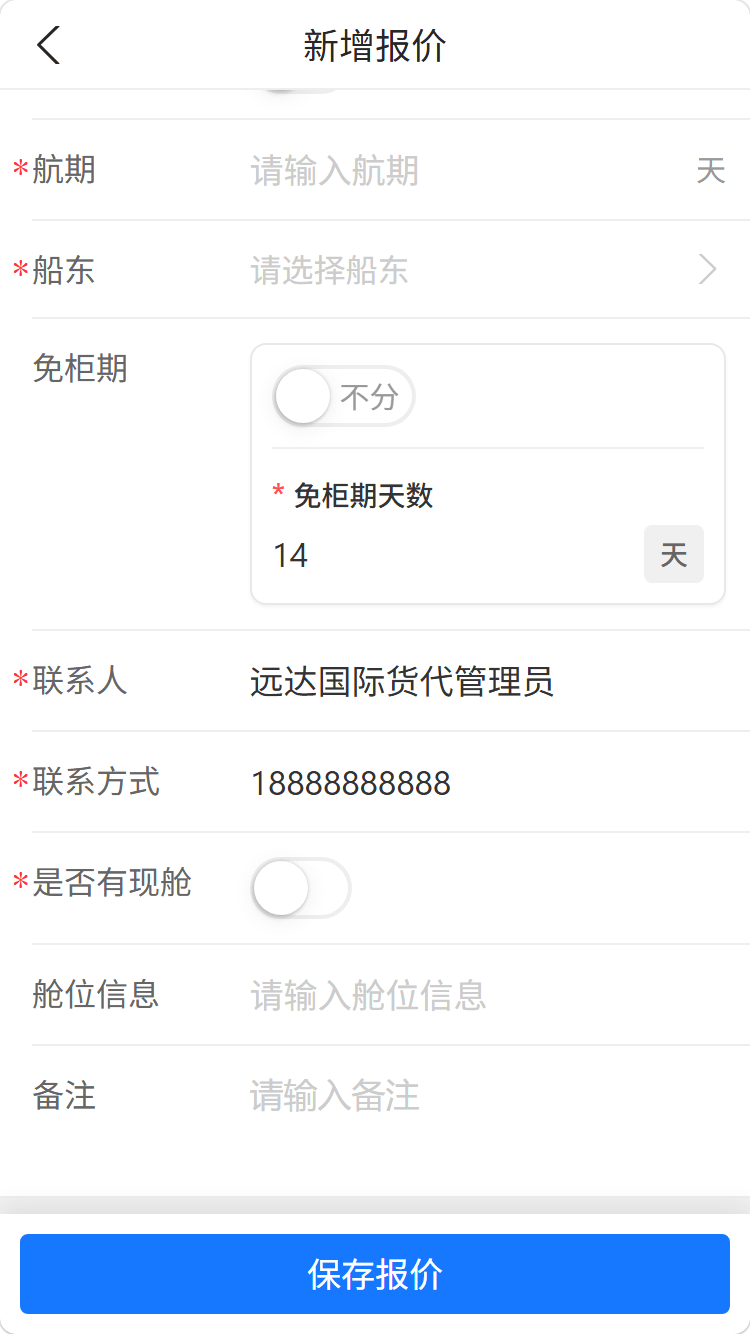
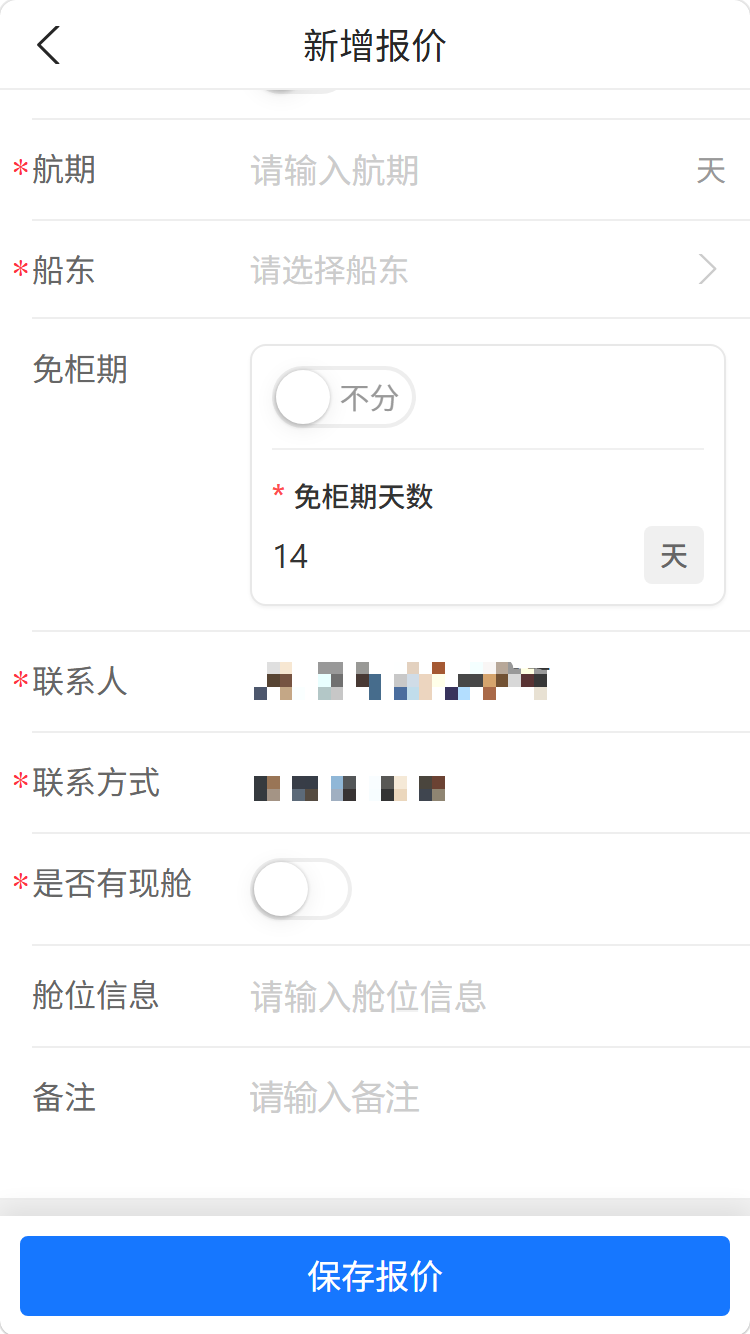
文档20260911更改

diff --git a/操作文档/LMS_物流管理/对外/国外物流_货代/Readme.md b/操作文档/LMS_物流管理/对外/国外物流_货代/Readme.md
@@ -1,14 +1,15 @@
-# 国外物流 — 货代
+# 保沣LMS系统操作手册——货代
 
-> 角色：外部货代供应商。操作界面：**保沣协同平台 PC 端**（报价中心）为主，微信公众号内嵌页面为辅（主要接收业务通知），两端数据实时同步。
+> 角色：货代供应商。操作界面：**保沣协同平台 PC 端**为主，微信公众号内嵌页面为辅，两端数据实时同步。
 
 ## 1. 角色说明
 
 货代供应商承担海外物流的**报价与订舱执行**：
 
-- **海运报价**：接收保沣海外询价，按方案（船东/航期/柜型价格）提交报价，接受多轮比价
+- **海运报价**：接收保沣海外物流需求询价，按船东/航期/柜型价格等提交报价方案
 - **订舱接单**：接收订舱委托，确认接单或拒绝
 - **上传订舱单**：订舱确认后，上传订舱号、提单号、船名航次、截单/开港时间等订舱信息（订舱底单）
+- **订舱信息跟踪**：可查看订舱委托信息，如保沣上柜计划、集装箱信息等
 
 账号由保沣物流管理员开通，业务消息（新询价、新委托、接单结果等）通过公众号模板消息推送。
 
@@ -16,32 +17,33 @@
 
 ### 2.1 访问入口
 
-日常操作以 **PC 端为主**；微信公众号为辅，主要用于接收消息通知。
+日常操作以 **PC 端为主**，微信公众号为辅。
 
-- **PC 端（主要操作入口）**：浏览器打开对外协同平台 <https://collab.xmbaofeng.com/>，使用平台账号登录，菜单为「**报价中心**」（海运报价、订舱委托）
-- **移动端（辅助）**：微信公众号「**厦门保沣集团有限公司**」→ 底部菜单「**合作伙伴**」→「**供应商协作**」进入操作页面；主要用来接收业务消息推送，点开消息可直接进入对应页面
+- **PC 端（主要操作入口）**：浏览器打开保沣协同平台 <https://collab.xmbaofeng.com/>，使用平台账号登录，菜单为「**报价中心**」（海运报价、订舱委托）。
+- **移动端（辅助）**：微信公众号「**厦门保沣集团有限公司**」→ 底部菜单「**合作伙伴**」→「**供应商协作**」进入操作页面；主要用来接收业务消息推送，点开消息可直接进入对应页面。
 
 移动端首页「物流管理」区提供两个入口：**海运报价**、**订舱委托**。
 
-<img src="attach/移动端_首页.png" alt="供应商移动端首页" style="zoom:50%;" />
+<img src="attach/移动端_首页.png" alt="供应商移动端首页" style="zoom: 33%;" />
 
 ### 2.2 账号开通与登录
 
-- 首次使用请联系保沣对接人开通平台账号（账号由保沣统一创建）；
+- 首次使用请联系保沣对接人开通平台账号，账号由保沣统一创建；
 - 请保护好账号密码信息；
-- 登录后请在个人中心中手动更改密码；
-- PC端可使用账号密码或公众号扫码登录，移动端通过公众号菜单打开；
+- 登录后请在个人中心中手动更改初始密码；
+- PC端可使用账号密码或微信扫码登录，移动端通过公众号打开；
+- 账号开通或者回收，请联系保沣对接人；
 
-### 2.3 绑定微信公众号（必做）
+### 2.3 绑定微信公众号
 
-询价邀请与业务消息都通过公众号模板消息推送，公众号里的页面也靠绑定识别身份——**不绑定即收不到通知，页面也无法正常使用**。
+询价邀请与业务消息都通过公众号模板消息推送，公众号里的页面也靠绑定识别身份——**不绑定即收不到通知，移动端页面也无法正常使用**。
 
 **绑定方法**：PC 登录协同平台 → 右上角头像 → **个人中心** → 绑定公众号 → 微信扫码 → 微信里确认授权。
 
 ![个人中心与绑定公众号入口](attach/账号管理_个人中心.png)
 
 1. 「修改密码」按钮；
-2. 「修改基本信息」按钮，供应商可自助维护名称、邮箱、手机号等资料；
+2. 「修改基本信息」按钮，供应商可自主维护名称、邮箱、手机号等资料；
 3. 「解绑微信公众号」按钮，未绑定时此处为绑定入口；
 4. 绑定公众号状态，**已绑定**即微信绑定生效；
 5. 角色权限，决定你能使用的功能。
@@ -71,31 +73,31 @@
 
 ### 4.1 海运报价
 
-**什么时候做**：收到询价推送（公众号消息）后**尽快响应**。保沣按报价自动比价排名，同样的价格，早报的先占位；截止时间一过系统自动结束询价。
+**什么时候做**：收到询价推送（公众号消息）后**尽快响应**。保沣按报价信息自动比价排名，同样的价格，早报的先占位；截止时间一过系统自动结束询价。
 
-**这一步要达成**：在截止前提交**有竞争力**的方案——价格有优势、船期匹配、有现舱。
+**这一步要达成**：在截止前提交**有竞争力**的方案——价格有优势、船期匹配、有现舱等。
 
 **怎么做**：
 
 #### 4.1.1 报价入口
 
-首页进入「**海运报价**」，看「询价中」页签的待报价询价
+首页进入「**海运报价**」，看「询价中」页签的待报价询价，点击「**报价**」按钮，或者通过公众号消息打开报价页面。
 
-<img src="attach/移动端_海运报价_列表.png" alt="海运报价列表" style="zoom:50%;" />
+<img src="attach/移动端_海运报价_列表.png" alt="海运报价列表" style="zoom: 33%;" />
 
 - 状态页签：询价中为默认；    
-- 报价：进入询价与报价；
-- 过滤：通过条件筛选类别数据；
+- 报价：进入报价页面；
+- 过滤：通过条件筛选列表数据；
 
 #### 4.1.2 新增报价
 
 点「报价」进入详情，核对询价要求（截止时间、柜型需求、免柜期等条件），在「报价信息」区点「**新增报价**」
 
-<img src="attach/移动端_海运报价_详情.png" alt="移动端报价详情" style="zoom:50%;" />
+<img src="attach/移动端_海运报价_详情.png" alt="移动端报价详情" style="zoom: 33%;" />
 
 - **询价信息**：
 
-	名称、起运港、目的港、截止时间、柜型需求、交易条款、货好日期、免柜期要求、其他要求、备注；
+	名称、起运港、目的港、截止时间、柜型需求、交易条款、货好日期、免柜期要求、其他要求、备注等；
 
 **注**：在截止时间前系统会自动结束报价，请在该时间前完成报价。
 
@@ -103,31 +105,31 @@
 
 填写方案并「**保存报价**」
 
-<img src="attach/移动端_新增报价.png" alt="移动端新增报价表单" style="zoom:50%;" />
+<img src="attach/移动端_新增报价.png" alt="移动端新增报价表单" style="zoom: 33%;" />
 
-<img src="attach/移动端_新增报价2.png" alt="移动端新增报价表单2" style="zoom:50%;" />
+<img src="attach/移动端_新增报价2.png" alt="移动端新增报价表单2" style="zoom: 33%;" />
 
-- 起运港/目的港：根据询价新增自动自动带出，无需填写 ；
-- 预计离港时间：选择预计离岗日期；  
-- 按柜型报价：
+- **起运港/目的港**：根据询价信息自动自动带出，无需填写 ；
+- **预计离港时间**：选择预计离岗日期；  
+- **按柜型报价**：
   - 单价 + 结算币种：必填；
   - 附加费：按需添加附加费+附加费币种，以及附加费说明，例如（800+RMB+驳船费）；  
-- 中转：航线是否中转；
-- 中转信息：若需中转则必填中转信息，否则无需填写；
-- 航期：单位为天；
-- 船东：选择船东，选择弹窗可输入船东名称快速过滤；
-- 免柜期：是否区分场内外，选择不分填写总免柜期，区分则分别填写场内外免柜期，单位为天；
-- 联系人：自动带出当前账的名称，可编辑；
-- 联系方式：自动带出当前账号的手机号，可编辑；
-- 是否有现舱、仓位信息、备注；
+- **中转**：航线是否中转；
+- **中转信息**：若需中转则必填中转信息，否则无需填写；
+- **航期**：单位为天；
+- **船东**：选择船东，选择弹窗可输入船东名称快速过滤；
+- **免柜期**：是否区分场内外，选择不分填写总免柜期，区分则分别填写场内外免柜期，单位为天；
+- **联系人**：自动带出当前账号的名称，可编辑；
+- **联系方式**：自动带出当前账号的手机号，可编辑；
+- **是否有现舱、仓位信息、备注**；
 
 #### 4.1.4 查看排名
 
 保存报价方案后系统根据所有报价方案计算当前询价中的排名信息，并可在截止时间前进行**「新增、修改、删除**」报价方案；
 
-<img src="attach/移动端_报价方案1.png" alt="移动端_报价方案1" style="zoom:50%;" />
+<img src="attach/移动端_报价方案1.png" alt="移动端_报价方案1" style="zoom: 33%;" />
 
-<img src="attach/移动端_报价方案2.png" alt="移动端_报价方案2" style="zoom:50%;" />
+<img src="attach/移动端_报价方案2.png" alt="移动端_报价方案2" style="zoom: 33%;" />
 
 #### 4.1.5 PC端
 
@@ -147,28 +149,28 @@
 
 #### 4.1.5 注意信息
 
-- 一个询价可提交**多个方案**（不同船东/报价等）；
 - 请仔细阅读询价要求，并按实填写报价方案；
-- 若有报价方案变动，请联系保沣物流管理员；
-- 移动端与PC端数据互通；
+- 一个询价可提交**多个方案**；
+- 若询价结束后有报价方案变动，请联系保沣物流管理员；
+- 移动端与PC端**数据互通**；
 
 ### 4.2 确认订舱委托：接单或拒绝
 
-**什么时候做**：收到订舱委托（中标）后**尽快处理**。保沣按该方案锁舱排产，委托长期未确认将阻塞后续询价、上柜计划。
+**什么时候做**：收到订舱委托（中标）后**尽快处理**。保沣按该方案锁舱排产，委托长期未确认将阻塞后续询价、上柜等。
 
 **这一步要达成**：明确接单与否——确认接单即承诺按方案订舱；无法承接应尽早拒绝，以便保沣另行选标。
 
 **怎么做**：
 
-1.首页进入「**订舱委托**」，页签：全部 / 待接单 / 已接单；待接单卡片可直接「**接单**」或先进详情
+1.首页进入「**订舱委托**」，页签：全部 / 待接单 / 已接单；待接单卡片可直接「**接单**」进入详情
 
-<img src="attach/移动端_订舱委托_列表.png" alt="订舱委托列表" style="zoom:50%;" />
+<img src="attach/移动端_订舱委托_列表.png" alt="订舱委托列表" style="zoom: 33%;" />
 
  **2.** 详情里核对订舱信息（起运港/目的港/柜型需求/货好日期/免柜期/要求/发货人/收货人/通知人等），确认自己能按方案履约
 
-<img src="attach/移动端_订舱委托_详情1.png" alt="订舱详情-待接单" style="zoom:50%;" />
+<img src="attach/移动端_订舱委托_详情1.png" alt="订舱详情-待接单" style="zoom: 33%;" />
 
-<img src="attach/移动端_订舱委托_详情2.png" alt="订舱详情-待接单" style="zoom:50%;" />
+<img src="attach/移动端_订舱委托_详情2.png" alt="订舱详情-待接单" style="zoom: 33%;" />
 
 **3.** 能承接点「**确认接单**」并确认；不能承接点「**拒绝接单**」，并填写拒绝原因；
 
@@ -186,7 +188,7 @@
 
 **结果**：确认接单后委托进入「已接单」，订舱正式生效，进入订舱底单上传环节。
 
-### 4.3 上传订舱底单（S/O）：回填船名航次信息
+### 4.3 上传订舱材料
 
 **什么时候做**：船公司放单、订舱信息确定后**立即回填**。保沣的排柜计划、拖车安排、报关均依赖该组数据：**开港时间决定保沣的装柜时间，回填延迟将使后续环节整体顺延**。
 
@@ -194,25 +196,42 @@
 
 **怎么做**：
 
-- 已接单委托详情中核对订舱底单数据：订舱号、提单号、船东、船名、航次号、航期
-- 修改与补充（截单时间、开港时间、下货纸）在 **PC 端**协同平台 → 报价中心 → 订舱委托 → 详情操作
+1. 已接单订舱委托→ 详情→ 【新增订舱单】、【新增排载单】信息
 
-**结果**：保沣物流管理员按订舱底单（S/O）安排上柜、拖车与报关。
+   ![PC 订舱详情](attach/订舱委托_上传材料.png)
 
-**注意**：船开后关注提单号回填，与实际不符及时反馈。
+2. **新增订舱单**：上传订舱确认书、填写订舱单信息。
 
-**特殊情况**：
+   ![PC 订舱详情](attach/新增订舱单1.png)
 
-| 情况 | 怎么办 |
-|------|--------|
-| 船司甩柜/换船 | 立即更新订舱底单并通知保沣物流管理员——排柜计划要跟着重排 |
-| 订舱底单信息填错 | 在 PC 端订舱委托页重新上传，并同步告知保沣物流管理员 |
+   ![PC 订舱详情](attach/新增订舱单2.png)
+
+- **订舱确认书**：必填，上传订舱确认书，仅支持PDF格式；
+
+		**自动解析：**开启后系统将自动解析PDF文件中的订舱信息，自动解析结果可能存在偏差，请自行核对识别数据；  
+
+- **S/O号**：必填，订舱号；
+- 提单号：提单编号；
+- 船东：必填，选择船东；
+- 船名：必填；
+- 航次号：必填；
+- 预计到达起运港时间、预计离开起运港时间、预计达到目的港时间、截单时间、截关时间、截港时间、开港时间、备注字段非必填，可随时补充修改
+
+3. **新增排载单**：上传排载单文件、填写信息。
+
+   ![PC 订舱详情](attach/新增排载单.png)
+
+4. **修改与补充**（截单时间、开港时间等）：若订舱单的截单时间、开港时间等信息变化时，可在订舱单信息中完成修改/补充操作。
+
+**注意**：
+
+- 在保沣物流管理员完成上柜计划后，订舱单无法新增，订舱单部分信息无法编辑，若需更改请线下与保沣物流管理员联系。
 
 ## 5. 常见问题
 
 **Q：报价里的排名是怎么来的？**
 
-A：保沣按柜型需求对各家报价自动比价排序，你提交/修改报价后排名实时更新；最终以询价方选标结果为准。
+A：保沣按柜型需求对各家报价自动比价排序，提交/修改报价后排名实时更新；最终以询价方选标结果为准。
 
 **Q：一个询价可以报几个方案？**
 

diff --git a/操作文档/LMS_物流管理/对内/国外物流_申请人/Readme.md b/操作文档/LMS_物流管理/对内/国外物流_申请人/Readme.md
@@ -20,19 +20,19 @@
 
 1. 打开云之家 →点击「**企业门户**」  →点击「**全部应用**」 →点击「**协同门户**」
 
-   ![](attach/协同门户入口.png)
+   ![](attach\协同门户入口.png)
 
 2. 顶部菜单选择「**物流管理**」子系统
 
 3. 左侧菜单 **海外物流 → 物流申请**
 
-   ![](attach/业务_物流申请.png)
+   ![](attach\业务_物流申请.png)
 
 - 通过协同门户网站地址打开（https://collab.xmbaofeng.com/）打开：
 
-	1. 打开网站 → 选择**账号密码**或**微信扫码**完成登录操作
+   1. 打开网站 → 选择**账号密码**或**微信扫码**完成登录操作
 
-    ![](attach/登录.png)
+    ![](attach\登录.png)
 
     2.顶部菜单选择「**物流管理**」子系统
 
@@ -43,7 +43,7 @@
 
 **绑定方法**：PC 登录协同平台 → 右上角头像 → **个人中心** → 绑定公众号 → 微信扫码 → 微信里确认授权。
 
-![image-20260910145016911](C:/Users/Administrator/AppData/Roaming/Typora/typora-user-images/image-20260910145016911.png)
+![image-20260910145016911](C:\Users\Administrator\AppData\Roaming\Typora\typora-user-images\image-20260910145016911.png)
 
 1. 「修改密码」按钮；
 2. 「解绑微信公众号」按钮，未绑定时此处为绑定入口；
@@ -93,6 +93,8 @@
 5. **品名**：必填，用于货代订舱使用；
 
 6. **交易条款：**必填，FCA/EXW/FOB 为指定货代，指定货代需选择操作货代字段；
+
+   **是否实盘**：非指定货代时选择，默认是；
 
    **操作货代：**指定货代必填，实际操作供应商；
 

diff --git a/操作文档/LMS_物流管理/对外/国外物流_托运/Readme.md b/操作文档/LMS_物流管理/对外/国外物流_托运/Readme.md
@@ -1,4 +1,4 @@
-# 国外物流 — 托车供应商
+# 保沣LMS系统操作手册——拖车
 
 > 角色：拖车/运输供应商。操作界面：**保沣协同平台 PC 端**（拖车计划查询）。
 
@@ -24,9 +24,11 @@
 
 ### 2.2 账号开通与登录
 
-- 首次使用请联系保沣对接人开通平台账号（账号由保沣统一创建）
-- PC 端使用账号密码登录；忘记密码联系保沣管理员重置
-- 换手机不影响登录，凭账号密码使用
+- 首次使用请联系保沣对接人开通平台账号，账号由保沣统一创建；
+- 请保护好账号密码信息；
+- 登录后请在个人中心中手动更改初始密码；
+- PC端可使用账号密码或微信扫码登录，移动端通过公众号打开；
+- 账号开通或者回收，请联系保沣对接人；
 
 ### 2.3 绑定微信公众号（必做）
 
@@ -66,7 +68,7 @@
 
 **这一步要达成**：按时段备好运力——时段是保沣按装柜顺序和场地容量错峰安排的，须严格执行。
 
-**怎么做**：微信收到「排车任务通知」模板消息 → 点开系统进入排车任务页 → 核对日期/时段/柜型柜量 → 安排车辆。
+**怎么做**：微信收到「排车任务通知」模板消息 → 打开系统进入排车任务页 → 核对日期/时段/柜型柜量 → 安排车辆。
 
 ![拖车_首页](attach/拖车_首页.png)
 
